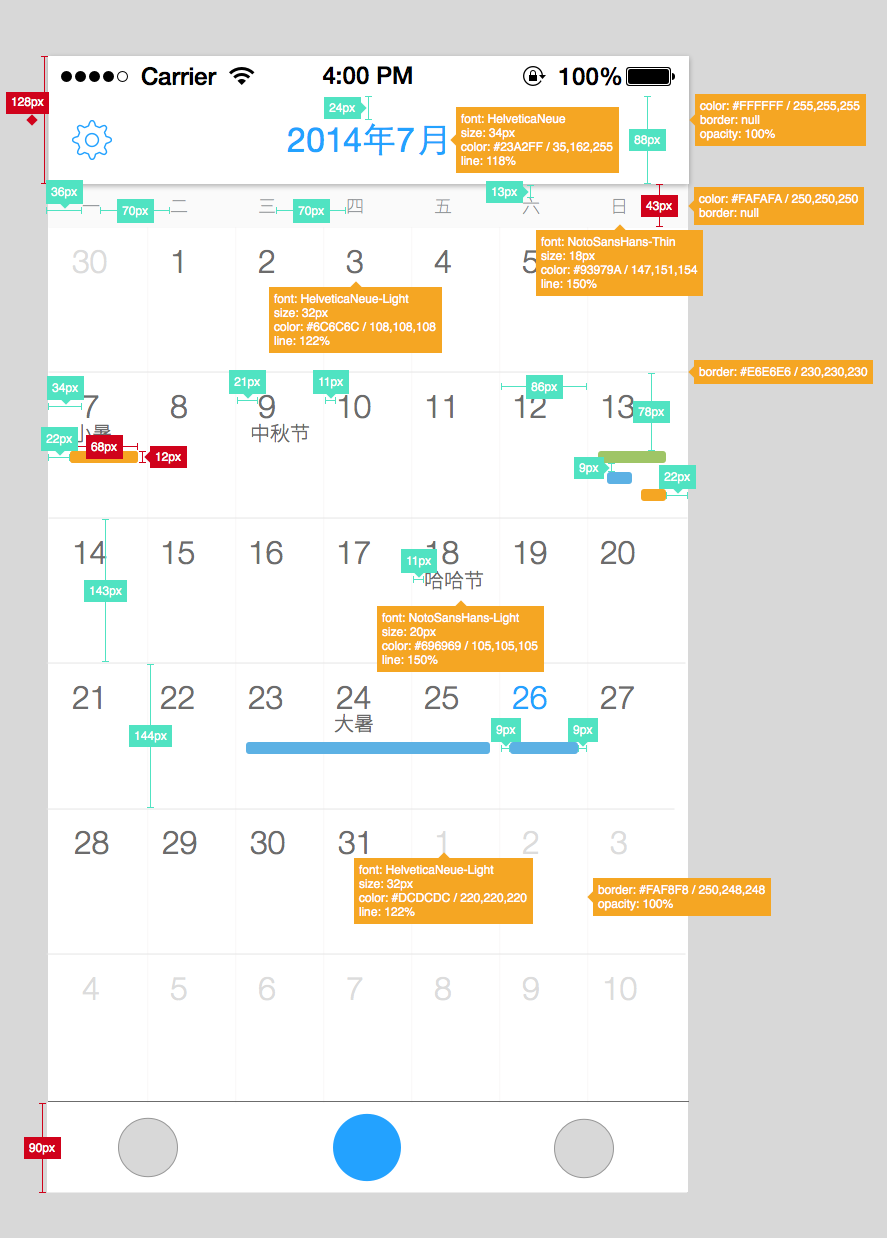
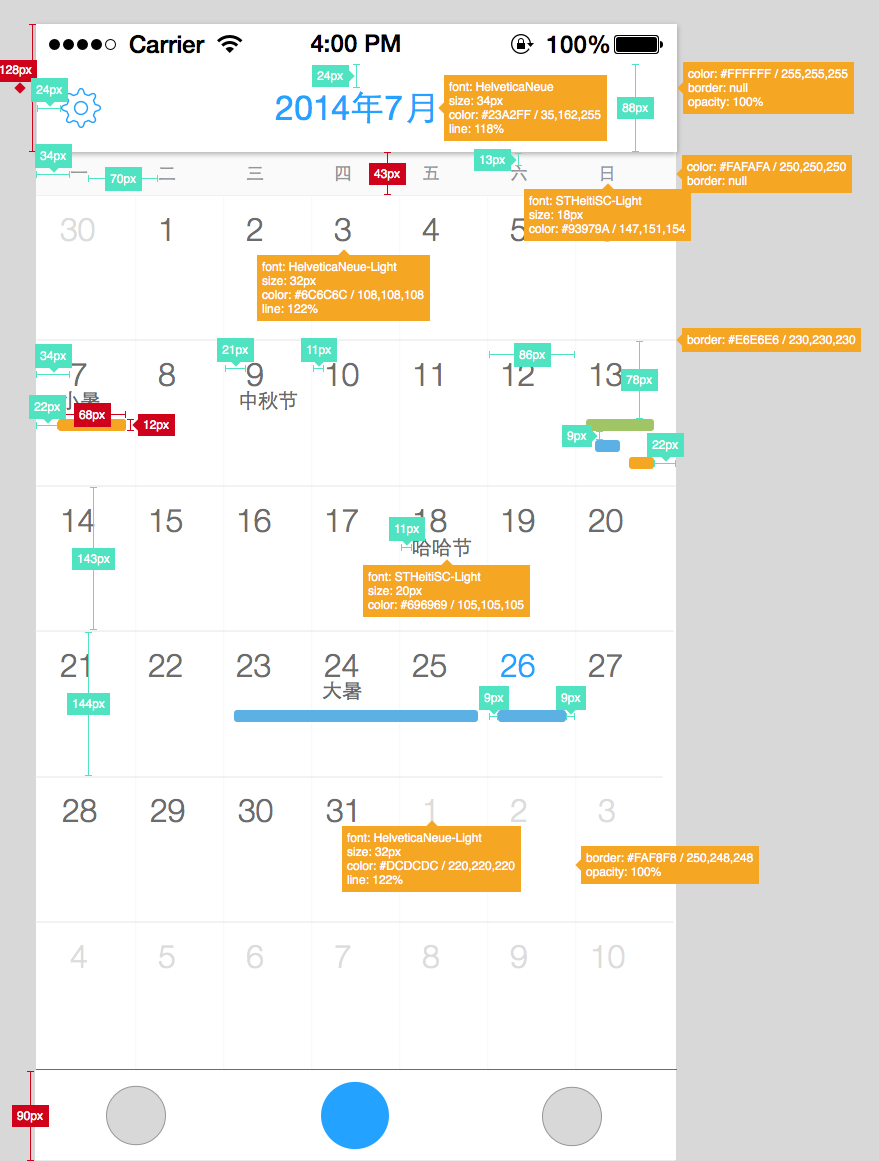
update month view

diff --git a/project/prd/calendar.html b/project/prd/calendar.html
@@ -34,6 +34,10 @@
 			<h2>1 概述</h2>
 
 			<p>应用为了兼顾用户的使用习惯，提供了四种视图：月视图、周视图、日视图和列表视图。</p>
+			<div>
+				<p class="small light">如果无法观看视频，请安装最新版的Safari<p>
+				<video src="http://sortime.oss-cn-hangzhou.aliyuncs.com/prd/calendar_views.mov" controls="controls"></video>
+			</div>
 
 			<h2>2 月视图</h2>
 
@@ -61,10 +65,23 @@
 
 			<h3>2.2 视觉</h3>
 
+			<ol>
+				<li>月视图中日程区域的宽度是616px，每一天的宽度是88px，日程区域距离左边和右边12px</li>
+				<li>月视图中，日期、节日和日程bar采用左对齐的策略</li>
+				<li>视图中横向和竖向线宽均为1px</li>
+				<li>图中距离的标注均不包含线宽，例如每天的宽度是88px，标注中为86px，因为线宽为1px</li>
+				<li>top menu中的图标上下居中</li>
+			</ol>
+
 			<div class="img_bc">
+				<span><img src="./img/month_view_mark_2.png" class="chart_img"></span>
 				<span><img src="./img/month_view_mark.png" class="chart_img"></span>
+
 			</div>
 
+			<h2>3 周视图</h2>
+
+			<h3></h3>
 
 		</div>
 		
